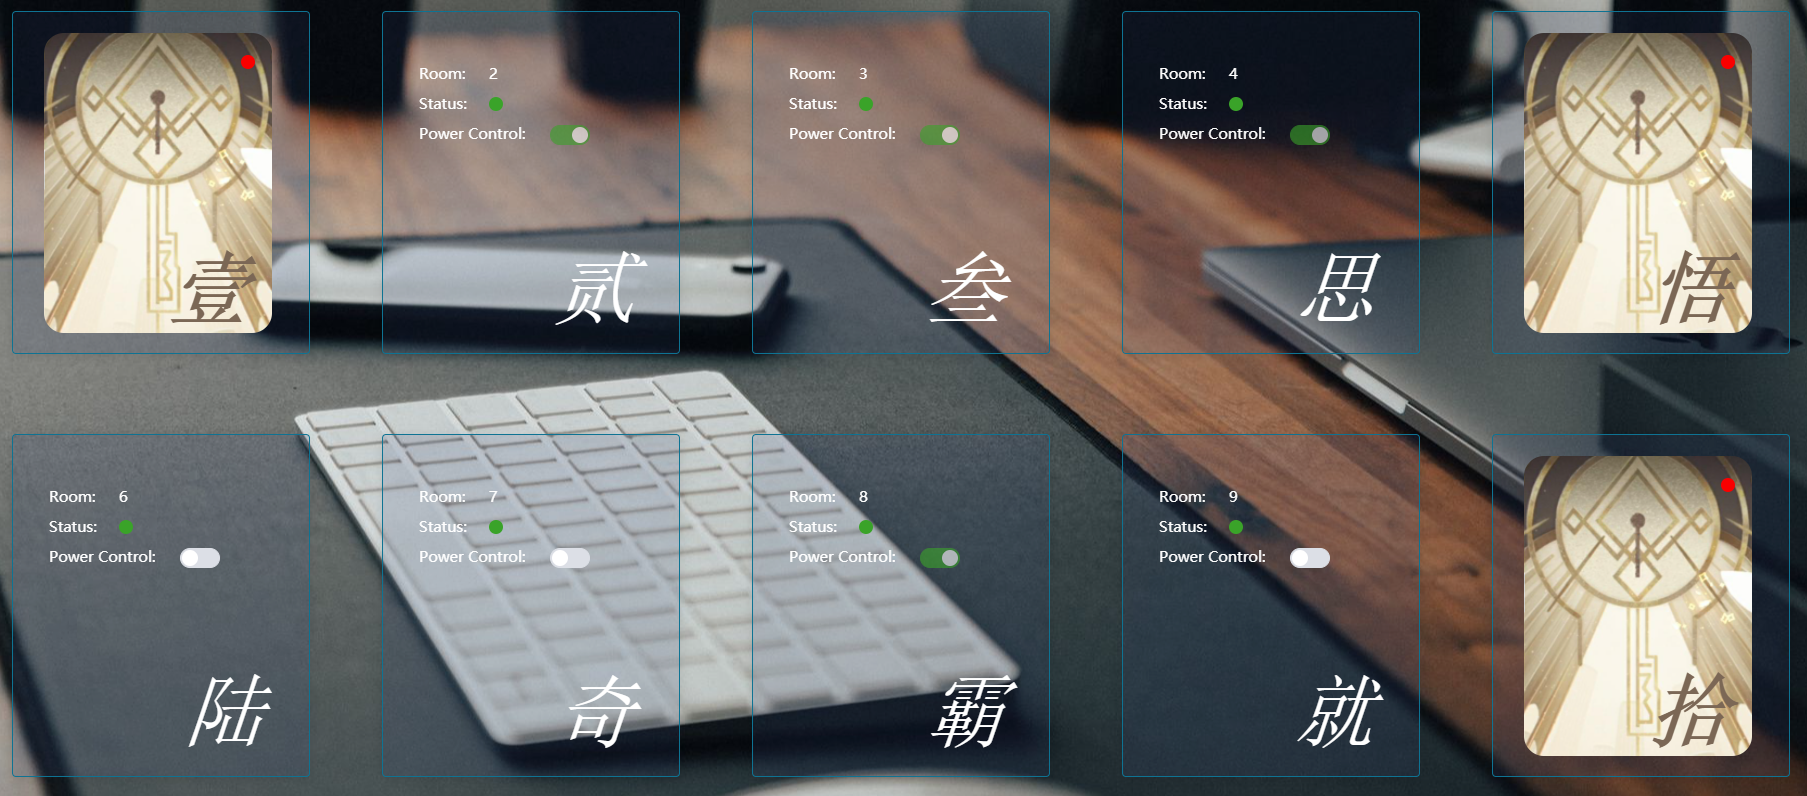
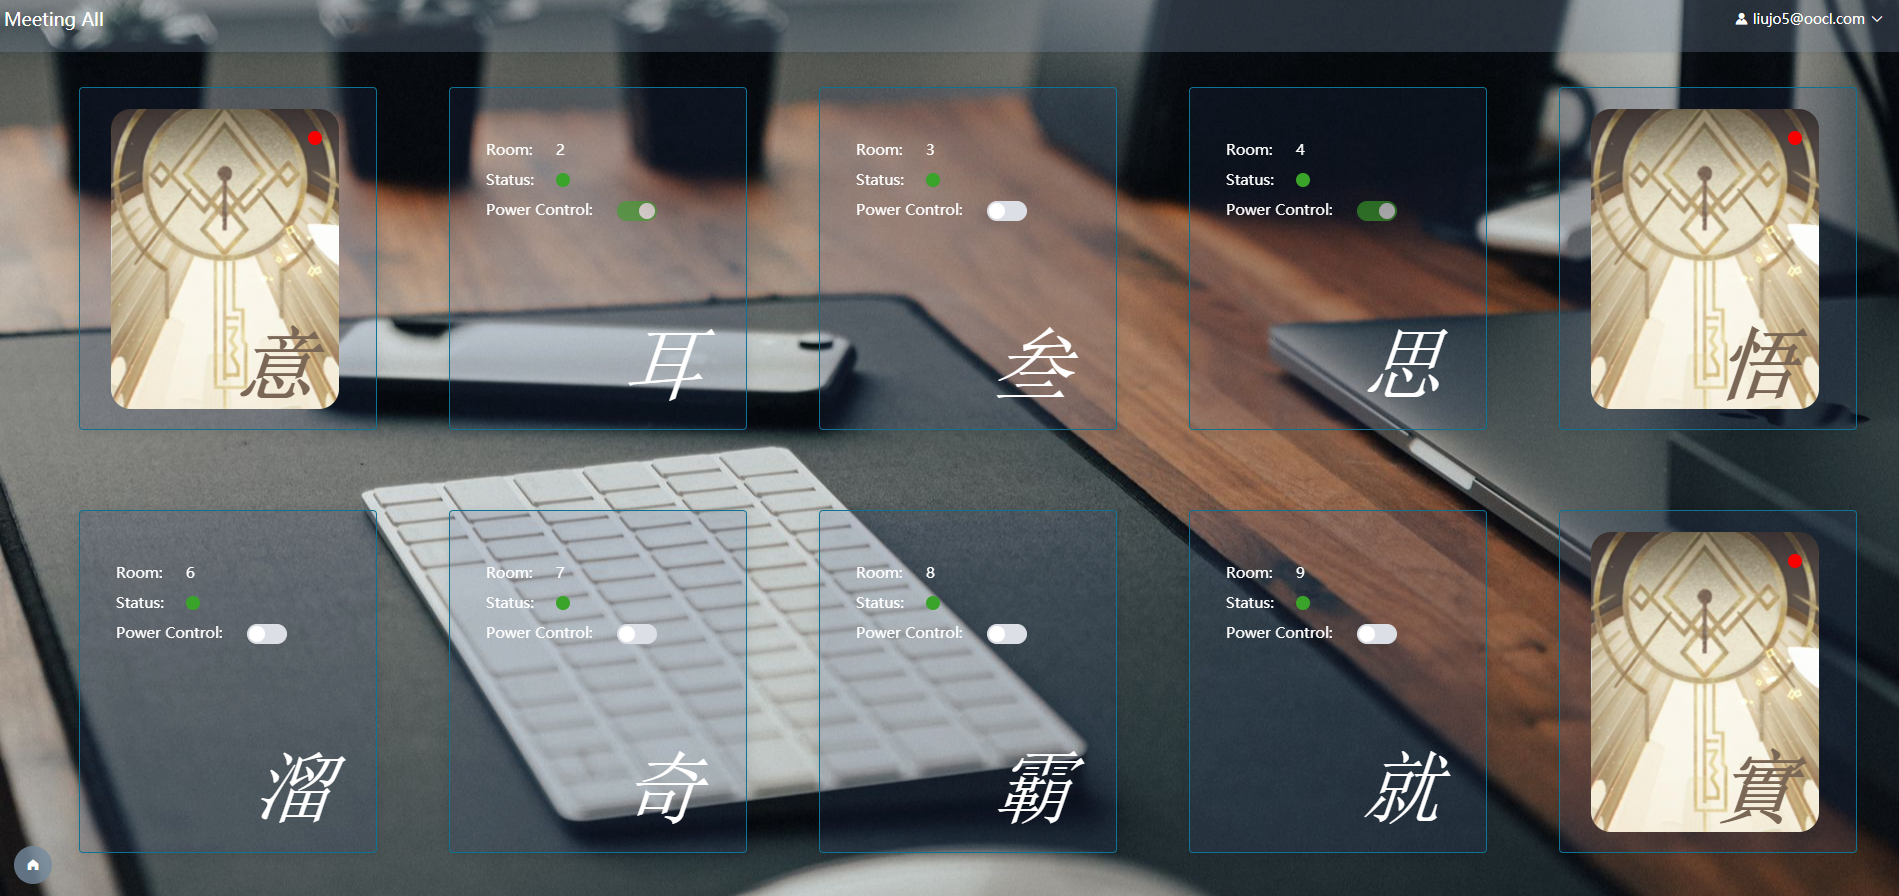
update the digitChart page

diff --git a/src/components/eChart/DigitChart.vue b/src/components/eChart/DigitChart.vue
@@ -3,14 +3,14 @@
     <el-col class='card-group' :span='4' v-for='(item, index) in roomList' :key='index'>
       <el-card class='meeting-room-card'>
         <div>
-          <div class="box"  :class="flip[index] ? 'flipped' : '' ">
-            <div class="card front">
+          <div class='box'  :class='flip[index] ? "flipped" : "" '>
+            <div class='card front'>
               <span :class='`status-icon-front ${isBusyStatus(item.currentStatus) ? "icon-background-red" : "icon-background-green"}`'></span>
-              <div :class="flip[index] ? '' : 'roomFont' "><i>{{getRoomDescriptionByRoomName(item.room)}}</i></div>
+              <div :class='flip[index] ?"" : "roomFont" '><i>{{getRoomDescriptionByRoomName(item.room)}}</i></div>
             </div>
-            <div class="card back">
-              <el-row class="meeting-room-detail">
-                <div class="meeting-room-name"><i>{{getRoomDescriptionByRoomName(item.room)}}</i></div>
+            <div class='card back'>
+              <el-row class='meeting-room-detail'>
+                <div class='meeting-room-name'><i>{{getRoomDescriptionByRoomName(item.room)}}</i></div>
                 <el-row>
                   <el-col :span='8'>Room:</el-col>
                   <el-col :span='12'>{{item.room}}</el-col>
@@ -39,111 +39,111 @@
 </template>
 
 <script>
-  import {queryMeetingRoomList} from '../../service/meetingRoom';
-  import {updateDevicePowerStatus} from '../../service/meetingRoom';
-  import LoginDialog from '../../views/LoginDialog';
-  import _ from 'lodash';
+import { queryMeetingRoomList, updateDevicePowerStatus } from '../../service/meetingRoom';
 
-  export default {
-    name: 'MeetingRoomPage',
-    components: {LoginDialog},
-    props: {
-      meetingRoomList: {
-        type: Array,
-        defaults: () => []
+import LoginDialog from '../../views/LoginDialog';
+import _ from 'lodash';
+
+export default {
+  name: 'MeetingRoomPage',
+  components: { LoginDialog },
+  props: {
+    meetingRoomList: {
+      type: Array,
+      defaults: () => []
+    }
+  },
+  data () {
+    return {
+      roomList: this.meetingRoomList,
+      flip: [],
+      showLoginDialog: false,
+      meetingRoomDetail: [],
+      meetingRoomGroup: {},
+      meetingRoomNameMap: [
+        {
+          room: '1',
+          description: '意'
+        },
+        {
+          room: '2',
+          description: '耳'
+        }, {
+          room: '3',
+          description: '叁'
+        }, {
+          room: '4',
+          description: '思'
+        }, {
+          room: '5',
+          description: '悟'
+        }, {
+          room: '6',
+          description: '溜'
+        }, {
+          room: '7',
+          description: '奇'
+        }, {
+          room: '8',
+          description: '霸'
+        }, {
+          room: '9',
+          description: '就'
+        }, {
+          room: '10',
+          description: '實'
+        }
+      ]
+    };
+  },
+  created () {
+    this.queryMeetingRoomList().then(val => {
+      this.init();
+    });
+  },
+  methods: {
+    async queryMeetingRoomList () {
+      let result = await queryMeetingRoomList();
+      if (result) {
+        this.meetingRoomGroup = _.groupBy(result, 'office');
+        this.roomList = this.meetingRoomGroup['B6-3F'];
       }
     },
-    data() {
-      return {
-        roomList: this.meetingRoomList,
-        flip: [],
-        showLoginDialog: false,
-        meetingRoomDetail: [],
-        meetingRoomGroup: {},
-        meetingRoomNameMap: [
-          {
-            room: '1',
-            description: '壹'
-          },
-          {
-            room: '2',
-            description: '贰'
-          },{
-            room: '3',
-            description: '叁'
-          },{
-            room: '4',
-            description: '思'
-          },{
-            room: '5',
-            description: '悟'
-          },{
-            room: '6',
-            description: '陆'
-          },{
-            room: '7',
-            description: '奇'
-          },{
-            room: '8',
-            description: '霸'
-          },{
-            room: '9',
-            description: '就'
-          },{
-            room: '10',
-            description: '拾'
-          },
-        ]
-      };
+    closeLoginDialog () {
+      this.showLoginDialog = false;
     },
-    created() {
-      this.queryMeetingRoomList().then(val => {
-        this.init();
+    flipCard (currentStatus, index) {
+      if (currentStatus === '0') {
+        this.$set(this.flip, index, !this.flip[index]);
+      }
+    },
+    init () {
+      this.roomList.forEach(room => room.currentStatus === '1' ? this.flip.push(false) : this.flip.push(true));
+    },
+    isBusyStatus (status) {
+      return _.isEqual(status, '1');
+    },
+    async updateDeviceStatus (room) {
+      console.log(room.isDeviceStarted);
+      if (room.isDeviceStarted) {
+        if (this.$store.getters['user/token'] === undefined || this.$store.getters['user/token'] === '') {
+          this.showLoginDialog = true;
+          return;
+        }
+        await updateDevicePowerStatus(room);
+        this.$message.success('Device started successfully');
+      }
+    },
+    getRoomDescriptionByRoomName (roomName) {
+      let result = this.meetingRoomNameMap.filter(val => {
+        return val.room === roomName;
       });
-    },
-    methods: {
-      async queryMeetingRoomList() {
-        let result = await queryMeetingRoomList();
-        if (result) {
-          this.meetingRoomGroup = _.groupBy(result, 'office');
-          this.roomList = this.meetingRoomGroup['B6-3F'];
-        }
-      },
-      closeLoginDialog() {
-        this.showLoginDialog = false;
-      },
-      flipCard(currentStatus, index) {
-        if (currentStatus === '0') {
-          this.$set(this.flip, index, !this.flip[index]);
-        }
-      },
-      init() {
-        this.roomList.forEach(room => room.currentStatus == '1' ? this.flip.push(false) : this.flip.push(true));
-      },
-      isBusyStatus(status) {
-        return _.isEqual(status, '1');
-      },
-      async updateDeviceStatus(room) {
-        console.log(room.isDeviceStarted);
-        if (room.isDeviceStarted) {
-          if (this.$store.getters['user/token'] === undefined || this.$store.getters['user/token'] === '') {
-            this.showLoginDialog = true;
-            return;
-          }
-          await updateDevicePowerStatus(room);
-          this.$message.success('Device started successfully');
-        }
-      },
-      getRoomDescriptionByRoomName (roomName) {
-        let result = this.meetingRoomNameMap.filter(val => {
-          return val.room === roomName
-        });
-        if (result[0]) {
-          return result[0].description;
-        }
+      if (result[0]) {
+        return result[0].description;
       }
     }
-  };
+  }
+};
 </script>
 
 <style scoped>
